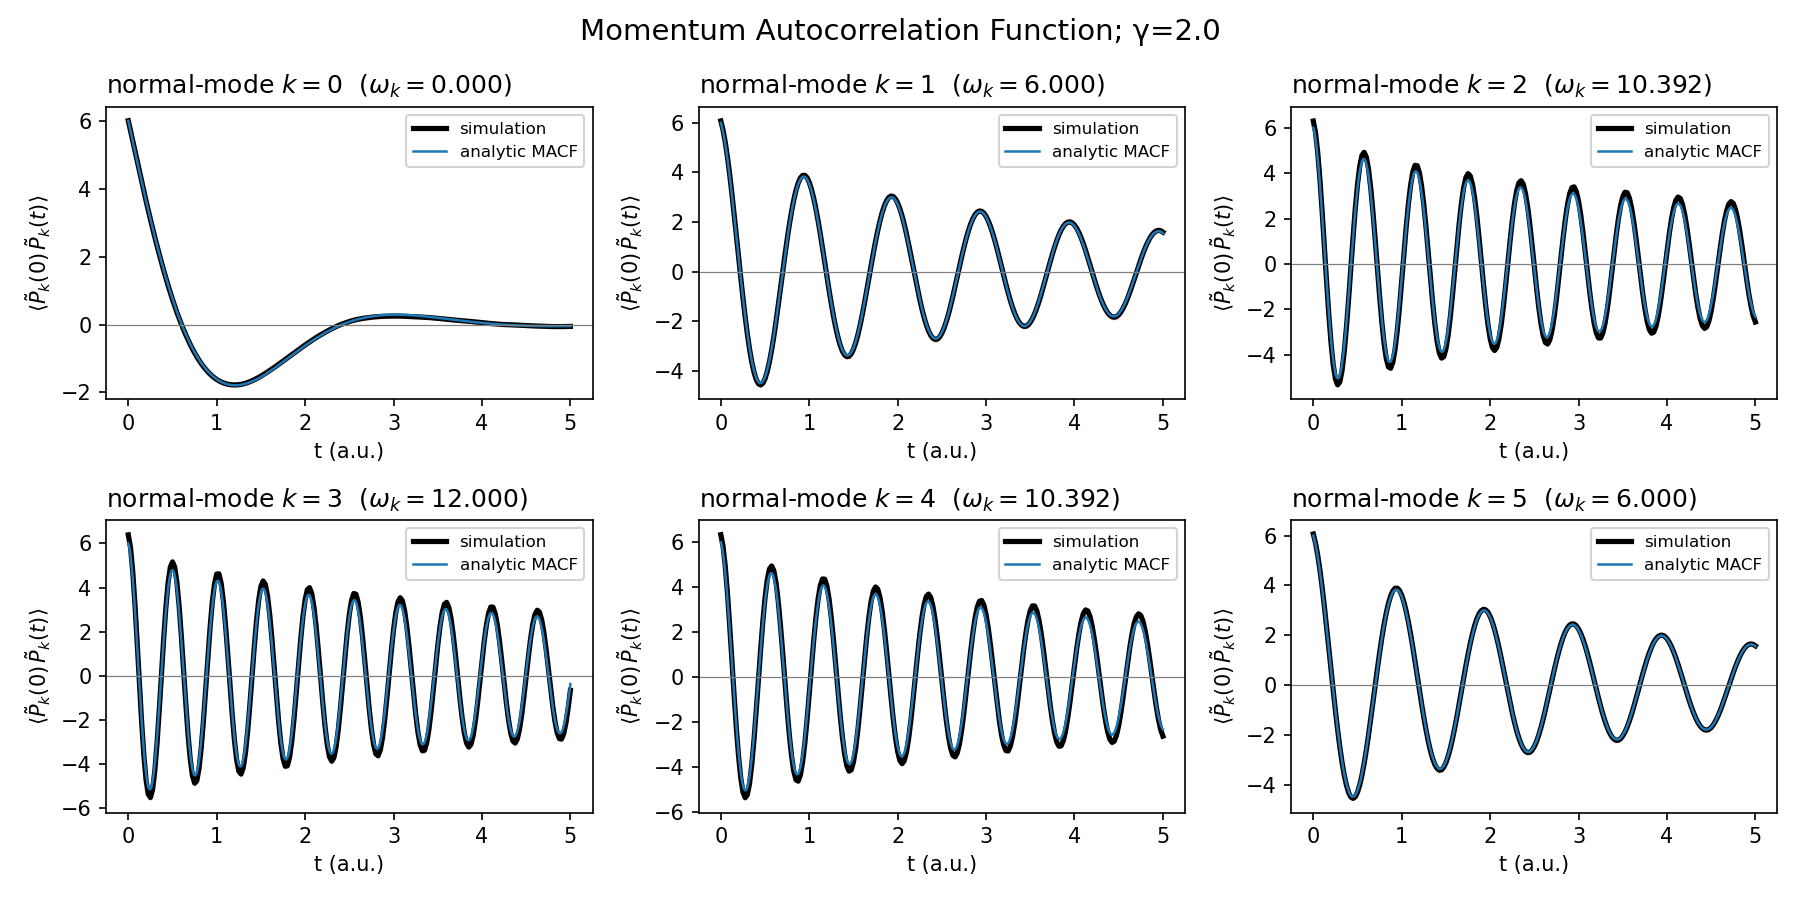
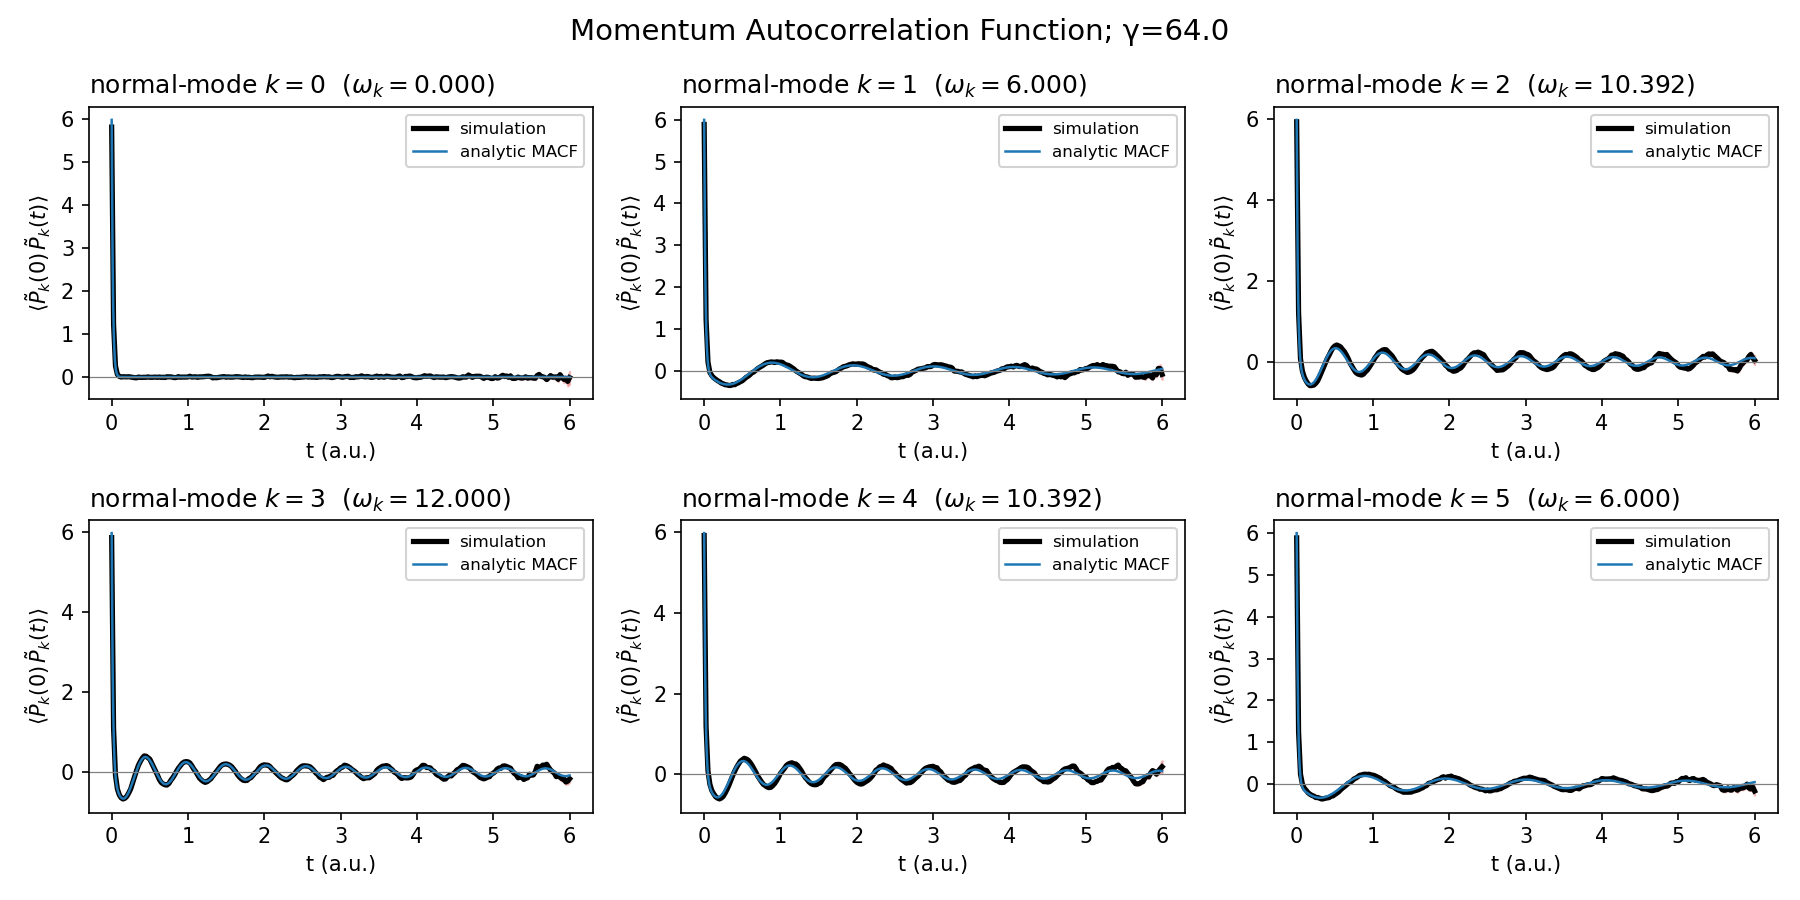
more junktesting

diff --git a/junktest/multi_traj/config.py b/junktest/multi_traj/config.py
@@ -18,14 +18,14 @@ CONFIG = {
 
     # SLURM knobs, used only by `python -m workflow.slurm` (safe to ignore locally)
     'slurm': {
-        'max_tasks'     : 495,
+        'max_tasks'     : 500,
         'job_name'      : 'rpmash_grid',
-        'time'          : '24:00:00',
+        'time'          : '9:00:00',
         'cpus_per_task' : 1,
         'max_concurrent': None,        # e.g. 50 -> "--array=0-N%50"
         'partition'     : None,
         'account'       : 'gts-jkretchmer3-chemx',
-        'mem'           : '16GB',
+        'mem'           : '8GB',
         'python'        : 'python',
         'extra_directives': [],        # raw "#SBATCH ..." lines if you need something uncommon
         'extra_commands': [
@@ -45,14 +45,14 @@ CONFIG = {
     'epsil' : -100.0,
     'lbd'   : 12.0,
     'delta' : 10**(-7),
-    'bath'  : [0, 1.0, 2.0, 2.0],     # [N_bath, mass, gamma, w_b]; N_bath=0 -> no explicit bath
+    'bath'  : [0, 1.0, 64.0, 2.0],     # [N_bath, mass, gamma, w_b]; N_bath=0 -> no explicit bath
 
     # integrator / thermostat
     #'intype'         : 'vv',
     'intype'         : 'spin_magnus_adaptive',
     'delt'           : 0.001,
-    'total_time'     : 15.,        # a.u.; Nsteps = total_time / delt
+    'total_time'     : 30.,        # a.u.; Nsteps = total_time / delt
     'Nprint'         : 25,
     'langevin'       : 'generalized',
-    'langevin_params': {'gamma': 2.00, 'Tmem': 10.00, 'Tfluc': 15.0},
+    'langevin_params': {'gamma': 64.00, 'Tmem': 25.00, 'Tfluc': 30.0},
 }
